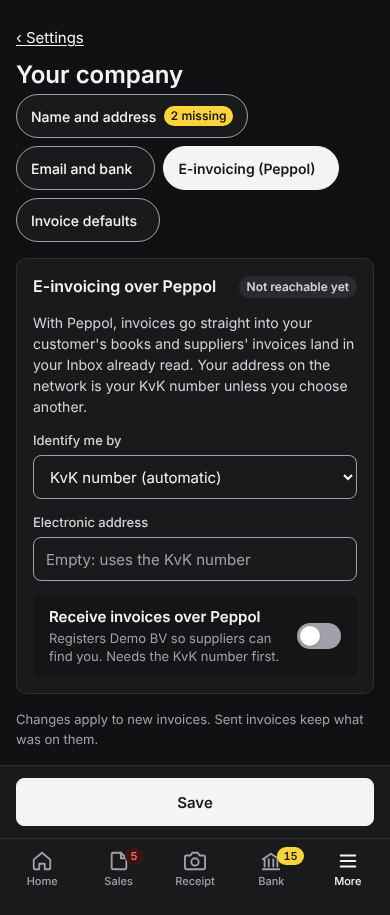
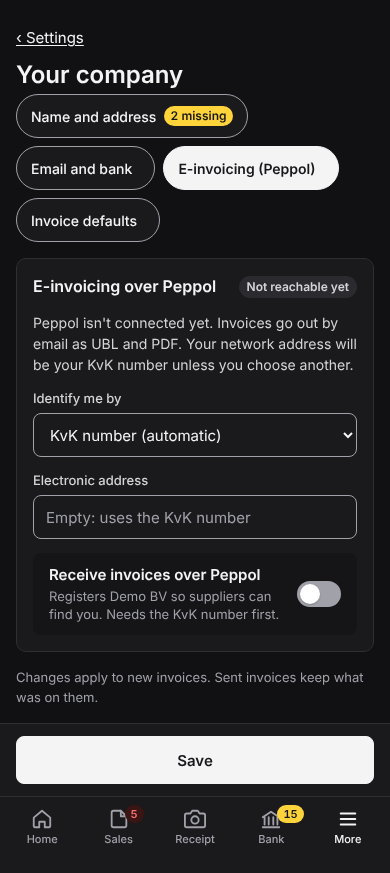
design: Settings #147 Legal edits (retention store, Peppol copy)
Derived boards only; Hidde's boards untouched.
- Retention (SettingsDataDark, PhoneSettingsData): "Storage: S3 with
  object lock in compliance mode, so nobody can delete early." DERIVED.md
  notes the line must follow the configured store (a fresh install uses
  a folder without object lock).
- Peppol (SettingsCompanyDark, PhoneSettingsCompany): "Peppol isn't
  connected yet. Invoices go out by email as UBL and PDF…", with the
  Dutch line in the copy table.
- No company.nl left in derived boards. Six affected shots re-shot.

Refs #147, Refs #140

diff --git a/design/redesign-2026-10/screens/SettingsCompanyDark.dc.html b/design/redesign-2026-10/screens/SettingsCompanyDark.dc.html
@@ -12,6 +12,7 @@
   Derived board, not drawn by Hidde (#147). Dark 1440 of SettingsCompany.dc.html: same tabs, figures and copy.
   Its own file, not a theme="dark" wrapper, because a wrapper only ever shows the first tab and #147 asks for every board; Hidde's Settings breadcrumb is also not underlined,
   and his "2 missing" badge is cut off inside the 36px subnav item (it may grow and the badge stays on one line).
+  Legal: the Peppol intro says Peppol isn't connected yet and invoices go out by email as UBL and PDF.
   The missing-field outline (selection-edge on brand-tint, 1.75:1 in light) keeps the ink-muted border and adds the yellow as an inner ring.
   Takes `theme` (default dark) and `view` (details, bank, peppol, defaults; default details) to pick the tab; clicking a tab still switches.
   A11y deviations (#107 decision 4): control borders on --ink-muted (3:1 or more), the Settings
@@ -87,7 +88,7 @@ a{color:var(--ink)}a:hover{color:var(--ink)}
         <sc-if value="{{v.peppol}}" hint-placeholder-val="{{false}}">
           <div class="k-card" style="padding: 24px; display: flex; flex-direction: column; gap: 16px;">
             <div style="display: flex; align-items: center; gap: 12px;"><h2 class="k-card-title" style="flex: 1;">E-invoicing over Peppol</h2><span class="k-pill k-pill--draft">Not reachable yet</span></div>
-            <p style="margin: 0; color: var(--ink-2); line-height: 1.5;">With Peppol, invoices go straight into your customer's books and suppliers' invoices land in your Inbox already read. Your address on the network is your KvK number unless you choose another.</p>
+            <p style="margin: 0; color: var(--ink-2); line-height: 1.5;">Peppol isn't connected yet. Invoices go out by email as UBL and PDF. Your network address will be your KvK number unless you choose another.</p>
             <div class="g2">
               <div class="k-field"><label class="k-label" for="sch">Identify me by</label><select id="sch" class="k-input"><option>KvK number (automatic)</option><option>0106 · KvK number</option><option>0190 · OIN (government)</option><option>9944 · VAT number</option></select></div>
               <div class="k-field"><label class="k-label" for="ea">Electronic address</label><input id="ea" class="k-input k-num" placeholder="Leave empty to use the KvK number"></div>

diff --git a/design/redesign-2026-10/screens/SettingsDataDark.dc.html b/design/redesign-2026-10/screens/SettingsDataDark.dc.html
@@ -11,7 +11,8 @@
 <!--
   Derived board, not drawn by Hidde (#147). Dark 1440 of SettingsData.dc.html: same tabs, figures and copy.
   Its own file, not a theme="dark" wrapper, because a wrapper only ever shows the first tab and #147 asks for every board; Hidde's Settings breadcrumb is also not underlined.
-  The empty Book year cells say "None" instead of a dash.
+  The empty Book year cells say "None" instead of a dash. Legal: the retention storage line names
+  the store (S3 with object lock); it must follow the configured store (see DERIVED.md).
   Takes `theme` (default dark) and `view` (xaf, hooks, ret, seal; default xaf) to pick the tab; clicking a tab still switches.
   A11y deviations (#107 decision 4): control borders on --ink-muted (3:1 or more), the Settings
   breadcrumb in ink and underlined, outlined key hints in dark primary buttons, no ink-faint,
@@ -84,7 +85,7 @@ a{color:var(--ink)}a:hover{color:var(--ink)}
             <div class="k-stat"><span class="k-stat-label">Without book year</span><span class="k-stat-value" style="color: var(--brand-ink);">2</span></div>
           </div>
           <div class="k-card" style="padding: 20px 24px; display: flex; flex-direction: column; gap: 10px;">
-            <p style="margin: 0; color: var(--ink-2); line-height: 1.5;">Seven years, ten for property, counted from the end of the book year a document belongs to. Nothing is ever deleted automatically. Storage is locked in compliance mode, so not even Klopt can delete early.</p>
+            <p style="margin: 0; color: var(--ink-2); line-height: 1.5;">Seven years, ten for property, counted from the end of the book year a document belongs to. Nothing is ever deleted automatically. Storage: S3 with object lock in compliance mode, so nobody can delete early.</p>
             <div style="display: flex; gap: 14px; align-items: center; padding: 14px 16px; border-radius: var(--radius-md); background: var(--surface-sunken);">
               <span style="flex: 1; display: flex; flex-direction: column;"><strong>Legal hold on the whole administration</strong><span class="k-muted" style="font-size: 13px;">Stops all deletion, whatever the term. For a dispute or a tax audit.</span></span>
               <button type="button" class="k-switch" role="switch" aria-checked="false" aria-label="Legal hold"></button>

diff --git a/design/redesign-2026-10/screens/PhoneSettingsCompany.dc.html b/design/redesign-2026-10/screens/PhoneSettingsCompany.dc.html
@@ -13,6 +13,7 @@
   sections, fields, help and copy. The side menu becomes wrapping 44px chips; the fields stack in one
   column (street and number, postcode and town share a row). Save is a 48px button in a sticky bar
   above the tab bar. Missing fields keep the --ink-muted border with a yellow inner ring on brand-tint.
+  Legal: the Peppol intro says Peppol isn't connected yet; invoices go out by email as UBL and PDF.
   Takes `theme` and `view` (details, bank, peppol, defaults; default details).
   PhoneSettingsCompanyDark.dc.html sets dark and passes `view` on.
   Phone pattern: .k-phone at 390, Hidde's five-tab bar with More active (Settings lives under More),
@@ -108,7 +109,7 @@ a{color:var(--ink)}
     <sc-if value="{{v.peppol}}" hint-placeholder-val="{{false}}">
       <div class="k-card cardp">
         <div style="display: flex; align-items: flex-start; gap: 12px;"><h2 style="flex: 1;">E-invoicing over Peppol</h2><span class="k-pill k-pill--draft" style="margin-top: 1px;">Not reachable yet</span></div>
-        <p class="txt">With Peppol, invoices go straight into your customer's books and suppliers' invoices land in your Inbox already read. Your address on the network is your KvK number unless you choose another.</p>
+        <p class="txt">Peppol isn't connected yet. Invoices go out by email as UBL and PDF. Your network address will be your KvK number unless you choose another.</p>
         <div class="k-field"><label class="k-label" for="sch">Identify me by</label><select id="sch" class="k-input"><option>KvK number (automatic)</option><option>0106 · KvK number</option><option>0190 · OIN (government)</option><option>9944 · VAT number</option></select></div>
         <div class="k-field"><label class="k-label" for="ea">Electronic address</label><input id="ea" class="k-input k-num" placeholder="Empty: uses the KvK number"></div>
         <button type="button" class="swrow" role="switch" aria-checked="false" disabled>

diff --git a/design/redesign-2026-10/screens/PhoneSettingsData.dc.html b/design/redesign-2026-10/screens/PhoneSettingsData.dc.html
@@ -13,6 +13,7 @@
   out, webhooks, retention and sealed snapshots, with Hidde's copy. The side menu becomes wrapping
   44px chips. Forms stack, buttons are 44px and full width, the four retention counts are a 2 by 2
   grid, the documents table becomes rows (the empty Book year column is left out; the pill says it).
+  Legal: the retention storage line names the store and must follow the configured store (DERIVED.md).
   The 64-character seal is split over two code lines of 32, so it never breaks mid-line by accident.
   Takes `theme` and `view` (xaf, hooks, ret, seal; default xaf).
   PhoneSettingsDataDark.dc.html sets dark and passes `view` on.
@@ -115,7 +116,7 @@ a{color:var(--ink)}
         <div class="k-stat st"><span class="k-stat-label">Without book year</span><span class="k-stat-value" style="color: var(--brand-ink);">2</span></div>
       </div>
       <div class="k-card cardp">
-        <p class="txt">Seven years, ten for property, counted from the end of the book year a document belongs to. Nothing is ever deleted automatically. Storage is locked in compliance mode, so not even Klopt can delete early.</p>
+        <p class="txt">Seven years, ten for property, counted from the end of the book year a document belongs to. Nothing is ever deleted automatically. Storage: S3 with object lock in compliance mode, so nobody can delete early.</p>
         <button type="button" class="swrow" role="switch" aria-checked="false">
           <span style="flex: 1; display: flex; flex-direction: column; gap: 2px;"><strong style="font-weight: 600;">Legal hold on the whole administration</strong><span class="sub">Stops all deletion, whatever the term. For a dispute or a tax audit.</span></span>
           <span class="k-switch" aria-hidden="true"></span>

diff --git a/design/redesign-2026-10/DERIVED.md b/design/redesign-2026-10/DERIVED.md
@@ -43,7 +43,10 @@ All four also load Google Fonts; the copies load `../design-system/fonts/fonts.c
 - Links are ink and underlined. No `ink-faint` for text. No new status colours: "Incomplete" and "2 details missing" stay `brand-ink`, "mapped to RGS" and "no drift" stay `success`, the pills are Hidde's.
 - Phone: `.k-phone` at 390, Hidde's five-tab bar with More active (Settings lives under More), sticky at the bottom. No key hints. Targets are 44px or more: the back link, chips, every input and select, Remove and Hide, and full-width buttons. Each switch is a 56px row that is the switch (`role="switch"`), so the whole row is the target. Company's Save is 48px in a sticky bar above the tab bar.
 - Numbers are Inter with tabular figures (`.k-num`, `nw` where they must not wrap). JetBrains Mono is only for codes: ledger numbers, RGS codes, VAT codes and the seal (`.k-code`).
-- No hosting claims. Hidde drew no `edition="hosted"` states on these boards, and the derived copy adds none. The retention text ("Storage is locked in compliance mode, so not even Klopt can delete early") is Hidde's and is kept as written.
+- No hosting claims. Hidde drew no `edition="hosted"` states on these boards, and the derived copy adds none.
+- **Legal edits (decided via CoS, 2 Nov 2026), derived boards only:**
+  - Retention (`ret` tab, dark and phone): Hidde's "Storage is locked in compliance mode, so not even Klopt can delete early" reads "Storage: S3 with object lock in compliance mode, so nobody can delete early." **This line must follow the configured store; it is never fixed text.** A fresh install stores files in a folder with no object lock, as the /retention screen shows, so there the line must say that instead of naming S3 and object lock.
+  - Peppol (`peppol` tab, dark and phone): Hidde's "With Peppol, invoices go straight into your customer's books…" reads "Peppol isn't connected yet. Invoices go out by email as UBL and PDF. Your network address will be your KvK number unless you choose another."
 - Sample people: Eva (`eva@bakkerij.example`) and Jan Visser (`jan@bakkerij.example`). Companies and accounts are Hidde's demo fixtures.
 - `shoot.mjs` printed no QA warnings for the 45 shots.
 
@@ -114,6 +117,8 @@ Strings Hidde already has on his Settings boards are not repeated here.
 | Documents (retention list) | Documenten |
 | Seal (label) | Zegel |
 | None (empty book year) | Geen |
+| Storage: S3 with object lock in compliance mode, so nobody can delete early. | Opslag: S3 met object lock in compliance-modus, dus niemand kan eerder verwijderen. |
+| Peppol isn't connected yet. Invoices go out by email as UBL and PDF. Your network address will be your KvK number unless you choose another. | Peppol is nog niet gekoppeld. Facturen gaan per e-mail als UBL en PDF. Je netwerkadres wordt je KvK-nummer, tenzij je een ander kiest. |
 
 ## Import source and problems: dark and phone (#152)
 
